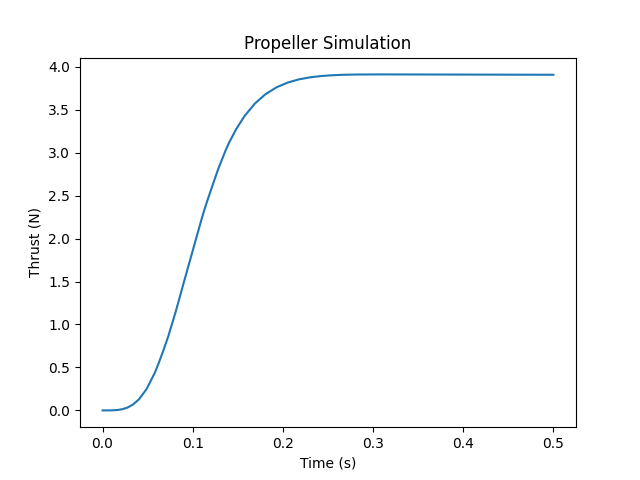
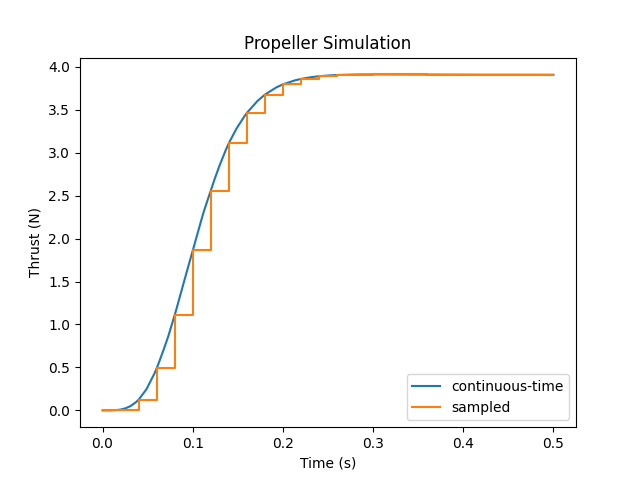
- allow for None as state_derivative function (e.g. for discrete-time systems) - actually update the state in simulation after running clock handlers - introduce library of discrete-time blocks, add a zero-order-hold block - update the DC-motor example to include a zero-order-hold element

diff --git a/modypy/blocks/discrete.py b/modypy/blocks/discrete.py
@@ -1,0 +1,53 @@
+"""Blocks for discrete-time simulation"""
+from modypy.model import Block, SignalState, Port, ClockPort
+
+
+class ZeroOrderHold(Block):
+    """
+    A zero-order-hold block which samples an input signal at the pulses
+    of the connected clock.
+    """
+
+    def __init__(self, owner, shape=1, initial_condition=None):
+        """
+        Constructor for ``ZeroOrderHold``
+
+        :param owner: The owner of the block (system or block)
+        :param shape: The shape of the input and output signal
+        :param initial_condition: The initial state of the sampling output
+            (before the first tick of the block)
+        """
+        Block.__init__(self, owner)
+
+        self.clock_input = ClockPort(self)
+        self.clock_input.register_listener(self.update_state)
+        self.input = Port(self, shape=shape)
+        self.output = SignalState(self,
+                                  shape=shape,
+                                  initial_condition=initial_condition,
+                                  derivative_function=None)
+
+    def update_state(self, data):
+        """Update the state on a clock event"""
+        data.states[self.output] = data.inputs[self.input]
+
+
+def zero_order_hold(system, input_port, clock, initial_condition=None):
+    """
+    Create a ``ZeroOrderHold`` instance that samples the given input port.
+    This is a convenience function that returns the single output port of the
+    zero-order-hold block.
+
+    :param system: The system the ``ZeroOrderHold`` block shall be added to.
+    :param input_port: The input port to sample.
+    :param clock: The clock or clock port to use as a sampling signal
+    :param initial_condition: The initial condition of the ``ZeroOrderHold`` block.
+    :return:
+    """
+
+    hold = ZeroOrderHold(system,
+                         shape=input_port.shape,
+                         initial_condition=initial_condition)
+    hold.input.connect(input_port)
+    hold.clock_input.connect(clock)
+    return hold.output

diff --git a/examples/dcmotor.py b/examples/dcmotor.py
@@ -1,13 +1,15 @@
 """
-A simple example using a DC-motor driving a propeller.
+A simple example using a DC-motor driving a propeller and sampling the
+thrust using a zero-order hold.
 """
 
 import matplotlib.pyplot as plt
 
 from modypy.blocks.aerodyn import Propeller
+from modypy.blocks.discrete import zero_order_hold
 from modypy.blocks.elmech import DCMotor
 from modypy.blocks.sources import constant
-from modypy.model import System
+from modypy.model import System, Clock
 from modypy.simulation import Simulator
 from modypy.utils.uiuc_db import load_static_propeller
 
@@ -47,13 +49,28 @@ voltage.connect(dcmotor.voltage)
 # Connect the density to the propeller
 density.connect(propeller.density)
 
+# We want to monitor the sampled thrust
+sample_clock = Clock(system, period=1/50.0)
+thrust_sampler = zero_order_hold(system,
+                                 input_port=propeller.thrust,
+                                 clock=sample_clock)
+
 # Run a simulation for 1/2s
 simulator = Simulator(system=system, start_time=0)
 simulator.run_until(t_bound=0.5)
 
 # Plot the thrust output over time
-plt.plot(simulator.result.time, simulator.result.signals[:, propeller.thrust.signal_slice])
-plt.title("Propeller Simulation")
-plt.xlabel("Time (s)")
-plt.ylabel("Thrust (N)")
+fig, ax = plt.subplots()
+ax.plot(simulator.result.time,
+        simulator.result.signals[:, propeller.thrust.signal_slice],
+        label="continuous-time")
+ax.step(simulator.result.time,
+        simulator.result.signals[:, thrust_sampler.signal_slice],
+        label="sampled")
+
+ax.set_title("Propeller Simulation")
+ax.legend()
+ax.set_xlabel("Time (s)")
+ax.set_ylabel("Thrust (N)")
+fig.savefig("propeller.png")
 plt.show()

diff --git a/modypy/model/evaluation.py b/modypy/model/evaluation.py
@@ -31,7 +31,7 @@ class Evaluator:
             state = system.initial_condition.copy()
         self._state = state
 
-        self._state_derivative = np.empty(system.num_states)
+        self._state_derivative = np.zeros(system.num_states)
         self.valid_state_derivatives = set()
 
         self._signals = np.zeros(system.num_signals)
@@ -179,12 +179,15 @@ class Evaluator:
         """
         if state in self.valid_state_derivatives:
             return self._state_derivative[state.state_slice].reshape(state.shape)
-        data = DataProvider(self.time,
-                            StateProvider(self),
-                            PortProvider(self))
-        state_derivative = state.derivative_function(data)
-        state_derivative = np.asarray(state_derivative).reshape(state.shape)
-        self._state_derivative[state.state_slice] = state_derivative.flatten()
+        if state.derivative_function is not None:
+            data = DataProvider(self.time,
+                                StateProvider(self),
+                                PortProvider(self))
+            state_derivative = state.derivative_function(data)
+            state_derivative = np.asarray(state_derivative).reshape(state.shape)
+            self._state_derivative[state.state_slice] = state_derivative.flatten()
+        else:
+            state_derivative = self._state_derivative[state.state_slice]
         self.valid_state_derivatives.add(state)
         return state_derivative
 

diff --git a/modypy/linearization.py b/modypy/linearization.py
@@ -35,6 +35,8 @@ def find_steady_state(system,
     If the search is successful, the values of all input signals in the system
     will be set to the respective input value identified for the steady state.
 
+    NOTE: This function currently does not honor clocks.
+
     :param system: The system to analyze.
     :param time: The time at which to determine the steady state. Default: 0
     :param method: The solver method to use. Refer to the documentation for
@@ -85,6 +87,8 @@ def system_jacobian(system,
 
     This can be used in conjunction with `find_steady_state` to determine
     an LTI approximating the behaviour around the steady state.
+
+    NOTE: This function currently does not honor clocks.
 
     :param system: The system to be analysed
     :param time: The time at which the system shall be considered

diff --git a/modypy/simulation.py b/modypy/simulation.py
@@ -334,6 +334,7 @@ class Simulator:
                                          inputs=port_provider)
             for listener in clock.listeners:
                 listener(data_provider)
+            self.current_state = state_updater.new_state
             # Get the next tick
             try:
                 next_tick_time = next(tick_entry.tick_generator)

diff --git a/modypy/model/clocks.py b/modypy/model/clocks.py
@@ -24,7 +24,8 @@ class ClockPort:
         """
         The clock-port that is referenced by connection by this clock port.
         """
-        self._reference = self._reference.reference
+        if self._reference is not self:
+            self._reference = self._reference.reference
         return self._reference
 
     @reference.setter

diff --git a/docs/index.rst b/docs/index.rst
@@ -36,18 +36,20 @@ refer to the :doc:`API Documentation <api/api>`.
 For example, a simple combination of a DC-motor and a propeller can be built
 as follows:
 
+
 .. code-block:: python
 
     import matplotlib.pyplot as plt
 
     from modypy.blocks.aerodyn import Propeller
+    from modypy.blocks.discrete import zero_order_hold
     from modypy.blocks.elmech import DCMotor
     from modypy.blocks.sources import constant
-    from modypy.model import System
+    from modypy.model import System, Clock
     from modypy.simulation import Simulator
     from modypy.utils.uiuc_db import load_static_propeller
 
-    # Import propeller data from UIUC database
+    # Import thrust and torque coefficients from the UIUC propeller database
     thrust_coeff, torque_coeff = \
         load_static_propeller(
             'volume-1/data/apcsf_8x3.8_static_2777rd.txt',
@@ -57,8 +59,9 @@ as follows:
             }
         )
 
-    # Create the Engine
     system = System()
+
+    # Create the engine, consisting of the motor and a propeller
     dcmotor = DCMotor(system,
                       Kv=789.E-6,
                       R=43.3E-3,
@@ -69,27 +72,43 @@ as follows:
                           power_coeff=torque_coeff,
                           diameter=8*25.4E-3)
 
-    # Connect the signals
+    # Connect the motor and propeller to each other
     propeller.torque.connect(dcmotor.external_torque)
     dcmotor.speed_rps.connect(propeller.speed_rps)
 
-    # Create the sources
+    # Create the sources for voltage and air density
     voltage = constant(system, value=3.5)
     density = constant(system, value=1.29)
 
-    # Connect the sources
+    # Connect the voltage to the motor
     voltage.connect(dcmotor.voltage)
+    # Connect the density to the propeller
     density.connect(propeller.density)
 
-    # Run the simulator
+    # We want to monitor the sampled thrust
+    sample_clock = Clock(system, period=1/50.0)
+    thrust_sampler = zero_order_hold(system,
+                                     input_port=propeller.thrust,
+                                     clock=sample_clock)
+
+    # Run a simulation for 1/2s
     simulator = Simulator(system=system, start_time=0)
     simulator.run_until(t_bound=0.5)
 
-    # Plot the results
-    plt.plot(simulator.result.time, simulator.result.signals[:, propeller.thrust.signal_slice])
-    plt.title("Propeller Simulation")
-    plt.xlabel("Time (s)")
-    plt.ylabel("Thrust (N)")
+    # Plot the thrust output over time
+    fig, ax = plt.subplots()
+    ax.plot(simulator.result.time,
+            simulator.result.signals[:, propeller.thrust.signal_slice],
+            label="continuous-time")
+    ax.step(simulator.result.time,
+            simulator.result.signals[:, thrust_sampler.signal_slice],
+            label="sampled")
+
+    ax.set_title("Propeller Simulation")
+    ax.legend()
+    ax.set_xlabel("Time (s)")
+    ax.set_ylabel("Thrust (N)")
+    fig.savefig("propeller.png")
     plt.show()
 
 
@@ -101,7 +120,8 @@ Main Features
 - Simple architecture based on states, signals and connectible ports
 - Enables hierarchical modelling
 - Allows the establishment of reusable building blocks
-- Simulator for continuous-time, linear and non-linear systems
+- Simulator for linear and non-linear continuous-time systems
+- Clock system to model periodic events and discrete-time components
 - Steady state determination and linearization
 - Library of standard blocks, including 6-degree-of-freedom rigid body motion
 - Tested for 100% statement and branch coverage
@@ -128,7 +148,8 @@ Examples
 Check out the examples in the ``examples`` directory:
 
 ``dcmotor.py``
-    A simple example using a DC-motor driving a propeller.
+    A simple example using a DC-motor driving a propeller and sampling the
+    thrust using a zero-order hold.
 ``rigidbody.py``
     Some rigid-body simulation using moments and forces showing an object
     moving in a circle with constant velocity and turn-rate.

diff --git a/README.rst b/README.rst
@@ -36,13 +36,14 @@ as follows:
     import matplotlib.pyplot as plt
 
     from modypy.blocks.aerodyn import Propeller
+    from modypy.blocks.discrete import zero_order_hold
     from modypy.blocks.elmech import DCMotor
     from modypy.blocks.sources import constant
-    from modypy.model import System
+    from modypy.model import System, Clock
     from modypy.simulation import Simulator
     from modypy.utils.uiuc_db import load_static_propeller
 
-    # Import propeller data from UIUC database
+    # Import thrust and torque coefficients from the UIUC propeller database
     thrust_coeff, torque_coeff = \
         load_static_propeller(
             'volume-1/data/apcsf_8x3.8_static_2777rd.txt',
@@ -52,8 +53,9 @@ as follows:
             }
         )
 
-    # Create the Engine
     system = System()
+
+    # Create the engine, consisting of the motor and a propeller
     dcmotor = DCMotor(system,
                       Kv=789.E-6,
                       R=43.3E-3,
@@ -64,27 +66,43 @@ as follows:
                           power_coeff=torque_coeff,
                           diameter=8*25.4E-3)
 
-    # Connect the signals
+    # Connect the motor and propeller to each other
     propeller.torque.connect(dcmotor.external_torque)
     dcmotor.speed_rps.connect(propeller.speed_rps)
 
-    # Create the sources
+    # Create the sources for voltage and air density
     voltage = constant(system, value=3.5)
     density = constant(system, value=1.29)
 
-    # Connect the sources
+    # Connect the voltage to the motor
     voltage.connect(dcmotor.voltage)
+    # Connect the density to the propeller
     density.connect(propeller.density)
 
-    # Run the simulator
+    # We want to monitor the sampled thrust
+    sample_clock = Clock(system, period=1/50.0)
+    thrust_sampler = zero_order_hold(system,
+                                     input_port=propeller.thrust,
+                                     clock=sample_clock)
+
+    # Run a simulation for 1/2s
     simulator = Simulator(system=system, start_time=0)
     simulator.run_until(t_bound=0.5)
 
-    # Plot the results
-    plt.plot(simulator.result.time, simulator.result.signals[:, propeller.thrust.signal_slice])
-    plt.title("Propeller Simulation")
-    plt.xlabel("Time (s)")
-    plt.ylabel("Thrust (N)")
+    # Plot the thrust output over time
+    fig, ax = plt.subplots()
+    ax.plot(simulator.result.time,
+            simulator.result.signals[:, propeller.thrust.signal_slice],
+            label="continuous-time")
+    ax.step(simulator.result.time,
+            simulator.result.signals[:, thrust_sampler.signal_slice],
+            label="sampled")
+
+    ax.set_title("Propeller Simulation")
+    ax.legend()
+    ax.set_xlabel("Time (s)")
+    ax.set_ylabel("Thrust (N)")
+    fig.savefig("propeller.png")
     plt.show()
 
 
@@ -96,7 +114,8 @@ Main Features
 - Simple architecture based on states, signals and connectible ports
 - Enables hierarchical modelling
 - Allows the establishment of reusable building blocks
-- Simulator for continuous-time, linear and non-linear systems
+- Simulator for linear and non-linear continuous-time systems
+- Clock system to model periodic events and discrete-time components
 - Steady state determination and linearization
 - Library of standard blocks, including 6-degree-of-freedom rigid body motion
 - Tested for 100% statement and branch coverage
@@ -123,7 +142,8 @@ Examples
 Check out the examples in the ``examples`` directory:
 
 ``dcmotor.py``
-    A simple example using a DC-motor driving a propeller.
+    A simple example using a DC-motor driving a propeller and sampling the
+    thrust using a zero-order hold.
 ``rigidbody.py``
     Some rigid-body simulation using moments and forces showing an object
     moving in a circle with constant velocity and turn-rate.
